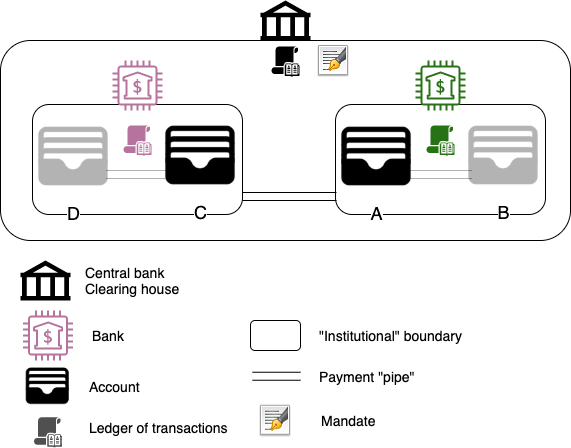
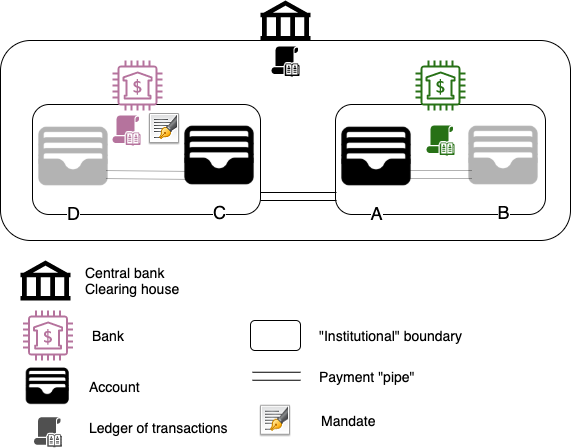
Payments 2 - Final draft

Changed region(s): [[0.1786, 0.2188, 0.4764, 0.5], [0.5359, 0.0938, 0.6252, 0.1875]]

diff --git a/_posts/2020-01-27-Payments-Intro-Part2.md b/_posts/2020-01-27-Payments-Intro-Part2.md
@@ -155,7 +155,7 @@ Timezones, bank holidays and business day cut-off times are all working against 
 
 ### Trust 
 
-This should not be here, because it should be taken as a given. But surprisingly it is not.  
+This should not be seen as an issue, because it should be taken as a given. But surprisingly it is not.  
 International transfers are based on an "arm's length" relationship, with clearing houses used to reduce risk and 
 establish trust. It is the more integrated network, TARGET2, which suffers from a growing lack of trust. 
 
@@ -163,17 +163,23 @@ As mentioned previously, TARGET2 facilitates intra-EU payments by allowing EU me
 This means that the consequent surpluses and deficits are balance sheet records; Germany's assets are Italy's, Spain's 
 etc liabilities. This has resulted in a [trillion][43] euro domino tower; a unilateral exit from the Euro by the 
 [southern debitors][44] would be, well... interesting, to say the least!  
-The northern European banking system would be lucky to survive. This mounting risk is causing a lot of untold headaches. 
+The northern European banking system would be lucky to survive. 
+
+This mounting risk is causing a lot of untold headaches and might one day cause an EU-wide [Mexican stand-off][52]. 
 
 ### Geopolitics
 
-The world is turning multi-polar.  
+The world is turning multi-polar. 
+
 Whether it is [China-US-EU][34] or some [other][35] [combination][36] is of little importance. What is important to 
 note is the disproportionate dominance of a single country and its currency (US dollar) in the global payments system.  
 Just a cursory glance at the actual [topology][37] of the [SWIFT network][38] is enough to prove that it is global in name only. 
-95% of the network coverage goes through US financial institutions. 
+95% of the network coverage goes through US financial institutions.  
 This makes it laughably easy for the US to [weaponize][39] its infrastructure and for the world to immediately comply. <sup>[6](#footnote_6)</sup>
-This is a strategic threat which countries around the world are waking up to.
+An EU attempt to keep the Iran nuclear deal [alive][54] (and override US sanctions), resulted in something more [like a barter 
+system][53] than a payments network.
+
+US dominance is a strategic threat which countries and corporations around the world are only now waking up to.
 
 ## Pull payments
 
@@ -192,58 +198,138 @@ amount
 
 ### Direct Debit
 
+According to the [Wikipedia definition][47] definition a direct debit is  
+> a financial transaction in which one person (or company) withdraws funds from another person's bank account...
+> the payer must have advised the bank that he or she has authorized the payee to directly draw the funds
+
+Direct debit (or with any other name it is known around the world) is an *automated variable recurring payment* 
+mechanism and network. It is already been around for [60 years][48].  
+It needs 2 basic things to operate:  
+* the account numbers of both parties (payer and payee), and
+* the payer's authorisation (a.k.a. [mandate][49])   
+
+Putting this in our usual diagram, we have something very similar to normal payments. 
+
 ![Direct debit payments](../images/payments/payments-dd.png)
 
+Let's say that customer C with an account in PurpleBank (left) started going to the gym owned by merchant A (account in 
+GreenBank). A wants to start charging C an amount monthly.  
+For this reason, A asks C to setup a mandate with C's PurpleBank. <sup>[7](#footnote_7)</sup> Once this is setup, on the 
+pre-agreed intervals (e.g. every 15th of the month), C's direct debit processor submits a debit instruction to the 
+scheme.  
+This is grouped together in batch files and submitted to the central scheme (e.g. Bacs in the UK) for processing, along 
+with all other payments. As already discussed in [part 1][1], the payment scheme has a central pool of money from all 
+participating banks.  
+Unlike push payments, in this case C's account will be credited immediately by using money from the central pot. 
+Meanwhile the scheme will claim (debit) the money from A's account to make up for the difference. In case something went
+wrong with A's debit (e.g. not enough funds, mandate no longer valid), the scheme will take the money back from C.  
+
+This latent, eventual settlement is a basic difference between direct debits and push payments.  
+In order to improve the experience for the payee (receive owed money as soon as possible, to assist with cashflow), most 
+direct debit schemes inverse the order of actions. <sup>[8](#footnote_8)</sup> In the rare case where there is a late 
+failure (e.g. account closed, owner deceased, mandate incorrect,...), money will appear and consequently disappear from 
+the payee's account.  
+It is interesting to note here that to set up a mandate all one needs is a correct owner name and account number. This 
+can lead to some interesting [cases of id theft][50] with legacy, paper- or telephony-based processors. A new wave of 
+online direct debit processors add [automated identity checks][51] in the process to tackle this ingrained feature. <sup>[9](#footnote_9)</sup>  
  
 ### Cards 
 
+The plastic card, [debit][64] or its older sister [credit][65] have been around since the '50s.
+
+It attempts to solve the following problem
+> How do you perform a financial transaction at point of sale without exchanging cash or bank account details?  
+
+The answer is... you guessed it! by introducing additional trusted third parties.
+
 ![Card payments](../images/payments/payments-card.png)
 
-Special case is mobile payment processors
-like GooglePay and ApplePay
+When paying with a card <sup>[10](#footnote_10)</sup>, there are 4 tiers of processing that take place. Let's take the 
+case of a customer using her [chip & pin][55] card at a merchant's [POS terminal][46].  
 
+* After the customer enters her PIN and completes the cardholder verification step, the terminal sends the transaction's 
+details (amount, card number, merchant id) to the Payment Processor (PP), to whom the terminal belongs (arrow 1).
+* After some basic checks, the Payment Processor immediately forwards the transaction to the Card Network (CN) (arrow 2). 
+* The CN maps the card number to the bank in which the customer has her account C (a.k.a. Issuer bank). It immediately 
+forwards the transaction to the Issuer (arrow 3).
+* The Issuer checks all kinds of things: Is the account open? Does it have enough limit to cover the transaction? Are 
+there are blocks for the transaction (e.g. fraud alerts)? etc  
+If all is ok, the confirmation travels all the way back to the terminal and gives the customer the happy beep!
 
+This is where it ends for the customer. But not yet for the merchant; she needs to receive the funds.  
+Depending on how things are setup, M can receive the funds the same day or many days later, with all the involved parties 
+taking a bite off the cake.  
+* The PP may be able to front the payment (a.k.a. provide cashflow). In this case  
+  * funds are transferred from the PP's bank account to M at the end of the day,
+  * PP submits the batched payment instructions for the day to the CN, asking to receive the equivalent amount, and
+  * the CN forwards the files to the bank for the amount to be sent to to the PP  
+* The merchant's bank (a.k.a. Acquirer bank) may be providing cashflow. In this case  
+  * the CN notifies the Acquirer of a successful confirmation (arrow 4),
+  * the Acquirer pays the merchant's account M from their own funds, and
+  * the PP submits payment files instructing the transfer from the Issuer bank (C) to the Acquirer 
+* Noone provides liquidity and the merchant has to wait.  
+In this case the PP submits the payment instructions for a direct transfer from C to M.  
 
+The underlying money transfer mechanisms (pipe 5) are the exact same ones described in the previous sections (domestic 
+and international). There is no magic or alternative way of transferring value in the case of cards.  
+From that lens the card network is a huge "traffic controller" or middle-man. It uses the card number and merchant id 
+as virtual addresses to locate the bank accounts of both and "get them in touch". 
 
-## Payment rails 
+It is also interesting to note the presence of a Payment Processor, in addition to the card network.  
+This is because the card network is strictly [b2b][56]; maintaining a network of thousands of banks is enough work. The 
+Issuer bank handles the relationship with the card holders. The Payment Processors <sup>[11](#footnote_11)</sup> handle 
+the relationship with the Merchant.  
 
-### OpenBanking
+The main benefit of card networks is their ubiquity.  
+Visa alone has a network of over [14,000 banks][57] and billions of cards issued.
 
-TBTF
+However, complexity and abstraction come at a price.  
+There are 2 main drawbacks to card usage.  
+* Fraud  
+There are tens of millions [stolen card details][58] online. With the card doubling as a direct pointer to the bank 
+account, it used to be [very easy][59] to perform online fraud. This is slowly tackled by introducing [2FA][59] in the
+online checkout process (e.g. [Verified by Visa][60]). 
+* Failure rates  
+The additional middlemen and network hops result in some [pretty][61] [dire][62] failure rates; up to 15% (!!) according 
+to [Worldpay][63]. Friction can be a huge loss of revenue, especially for online merchants. 
 
+### ...and mobile
 
-### Paypal
+In the previous diagram you may have noticed a small mobile next to the customer.  
+We cannot talk about pull payments, without covering mobile wallets (e.g. [ApplePay][66], [GooglePay][67], 
+[Samsung Pay][68],...). 
 
-### M-Pesa
+Mobile payments are layered on top of the credit card networks.  
 
-![Mobile payments](../images/payments/payments-mobilemoney.png)
+The actual card details (number, name, expiry date,...) are initially turned into a secure token, following the [EMVCo 
+specification][69]. This happens by communicating them once to Apple <sup>[12](#footnote_12)</sup>, getting the token back
+and storing on the mobile phones' secure wallet.  
+Whenever the phone is near a POS reader, the wallet is unlocked using the PIN/thumb/etc. The tokenized card is used to 
+sign the transaction (amount, merchant,...) and, via the reader, is sent for verification.  
+It is routed to Apple's servers where the token is verified to represent a card. After that it is processed like a 
+normal card payment. 
 
+In this context Apple is taking partly the role of the payment processor, facilitating the transaction routing. For this
+it is taking a percentage of the payment (0.15% in the US for Apple).  
+With mobile phone usage and wireless micro-payments [exploding worldwide][70], this is a very lucrative revenue stream, 
+increasing the [CLV][71] by orders of magnitude.
 
-### Remittance services
+As mentioned previously, complexity comes at a price.  
+With Apple / Google / etc becoming a trusted intermediary, mobile payments are [more open to fraud][72] than plain card 
+usage at the moment. That is because the thumbprint or PIN at the point of sale, only proves device ownership, not card 
+ownership. 
 
-![Remittance payments](../images/payments/payments-remittance.png)
+## Stay tuned... 
 
-https://en.wikipedia.org/wiki/Hawala
+![Stay tuned](../images/payments/flat-screen-television-1201996.jpg)
+> Photo by JESHOOTS.com from Pexels
 
-## ...and the future
+In the next and final installment, we will go over  
+* some modern "payment rails" developed in the last decade, 
+* the emerging role of crypto-currencies into the "payments mix", and
+* wrap up with some parting thoughts.
 
-### Digital IOUs
-
-![IOU payments](../images/payments/payments-iou.png)
-
-### Libra
-
-![Libra payments](../images/payments/payments-libra.png)
-
-### Government cryptocurrencies
-
-![Government crypto payments](../images/payments/payments-gov-crypto.png)
-
-### Proof-of-work money 
-
-![Crypto payments](../images/payments/payments-crypto.png)
-
-
+Until then, don't forget to spend! :-)
 
 ## Footnotes
 
@@ -260,6 +346,18 @@ account in PurpleBank) is worth nil and has to be written off.
 6. <a name="footnote_6"></a>Being placed under sanctions goes beyond financial transactions. Any part of the [US 
 infrastructure][45] from SWIFT message processing to mail servers etc is blocked for entities considered adversaries. 
 And this can increasingly be anyone.
+7. <a name="footnote_7"></a>The mandate is the equivalent of C declaring "Please allow A to take (debit) from my account 
+in PurpleBank every X days and deposit it in her account in GreenBank". 
+8. <a name="footnote_8"></a>In a "normal" push payment it is first debit (from the payer) and then credit (to the payee).  
+In direct debit, it is first credit (to the payee) and then debit (from the payer), or at the very least these 2 happening 
+almost in parallel. 
+9. <a name="footnote_9"></a>Full disclosure: I am an employee of GoCardless, an online direct debit provider, at the 
+time of writing this article. 
+10. <a name="footnote_10"></a>Debit and credit cards have no practical difference in this discussion.
+11. <a name="footnote_11"></a>This used to be exclusively the remit of the Acquiring banks. But as technology and terminals 
+started becoming more advanced, it becomes harder and harder for "generalists" (as the banks are) to compete. Hence the 
+rise of dedicated processors. 
+12. <a name="footnote_12"></a>When mentioning 'Apple' in this section, I refer to Apple, Google, Samsung,... 
 
 
 
@@ -309,3 +407,29 @@ And this can increasingly be anyone.
   [44]: https://www.telegraph.co.uk/business/2019/06/04/german-bundesbank-comes-clean-euro-default-risks-italys-parallel/
   [45]: https://www.congress.gov/bill/116th-congress/senate-bill/482/text
   [46]: https://en.wikipedia.org/wiki/Point_of_sale
+  [47]: https://en.wikipedia.org/wiki/Direct_debit
+  [48]: https://www.youtube.com/watch?v=HLpIbRLi_x4
+  [49]: https://gocardless.com/direct-debit/mandates/
+  [50]: https://www.theguardian.com/money/2008/jan/07/personalfinancenews.scamsandfraud
+  [51]: https://gocardless.com/guides/posts/direct-debit-in-the-digital-age/
+  [52]: https://en.wikipedia.org/wiki/Mexican_standoff
+  [53]: https://www.gtreview.com/news/mena/analysis-will-europes-new-iran-payment-mechanism-work/
+  [54]: https://en.wikipedia.org/wiki/United_States_withdrawal_from_the_Joint_Comprehensive_Plan_of_Action
+  [55]: https://en.wikipedia.org/wiki/EMV
+  [56]: https://en.wikipedia.org/wiki/Business-to-business
+  [57]: https://usa.visa.com/dam/VCOM/download/corporate/media/visa-fact-sheet-Jun2015.pdf
+  [58]: https://blog.cybersixgill.com/23million_stolen_cc_blog
+  [59]: https://en.wikipedia.org/wiki/Multi-factor_authentication
+  [60]: https://www.visa.co.uk/pay-with-visa/featured-technologies/verified-by-visa.html
+  [61]: https://www.spreedly.com/blog/credit-card-vs-debit-card-decline-rates-processing-fees
+  [62]: https://blog.recurly.com/benchmarking-minimizing-credit-card-transaction-decline-rates
+  [63]: https://www.worldpay.com/en-us/insights-hub/article/3-ways-to-drive-higher-approval-rates-in-online-payments
+  [64]: https://en.wikipedia.org/wiki/Debit_card
+  [65]: https://en.wikipedia.org/wiki/Credit_card
+  [66]: https://en.wikipedia.org/wiki/Apple_Pay
+  [67]: https://en.wikipedia.org/wiki/Google_Pay
+  [68]: https://en.wikipedia.org/wiki/Samsung_Pay
+  [69]: https://www.emvco.com/emv-technologies/payment-tokenisation/
+  [70]: https://www.statista.com/topics/4322/apple-pay/
+  [71]: https://en.wikipedia.org/wiki/Customer_lifetime_value
+  [72]: https://www.forbes.com/sites/thomasbrewster/2019/03/27/millions-are-being-lost-to-apple-pay-fraudwill-apple-card-come-to-the-rescue/#134e0c10622f

diff --git a/_posts/2020-01-21-Payments-Intro-Part1.md b/_posts/2020-01-21-Payments-Intro-Part1.md
@@ -280,9 +280,8 @@ Otherwise this is passed on to the customer, sometimes with sprinkle on top. <su
 > Photo by Nicholas Githiri from Pexels
 
 In the next installment, we will examine  
-* pull instead of push payments,
-* how international payments work, and
-* the role of the modern "payment rails", such as cards and remittance services 
+* pull instead of push payments, namely direct debit and card payments, and
+* how international payments work 
 
 ## Footnotes
 
